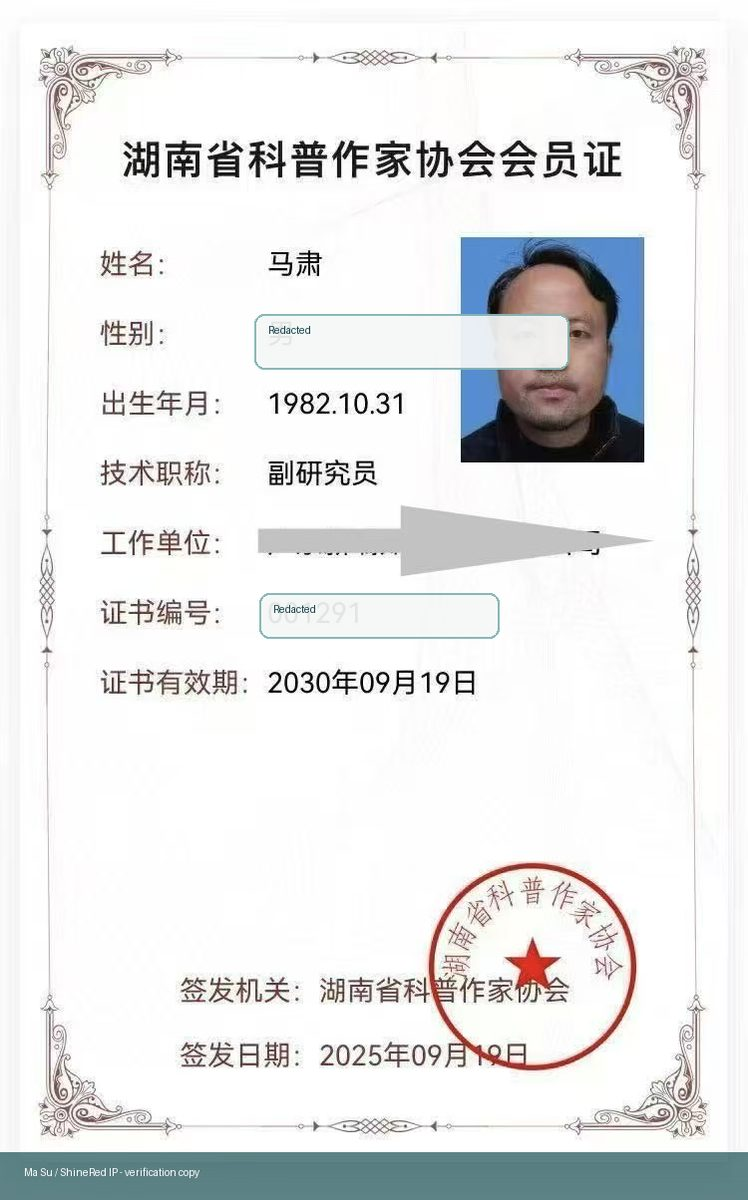
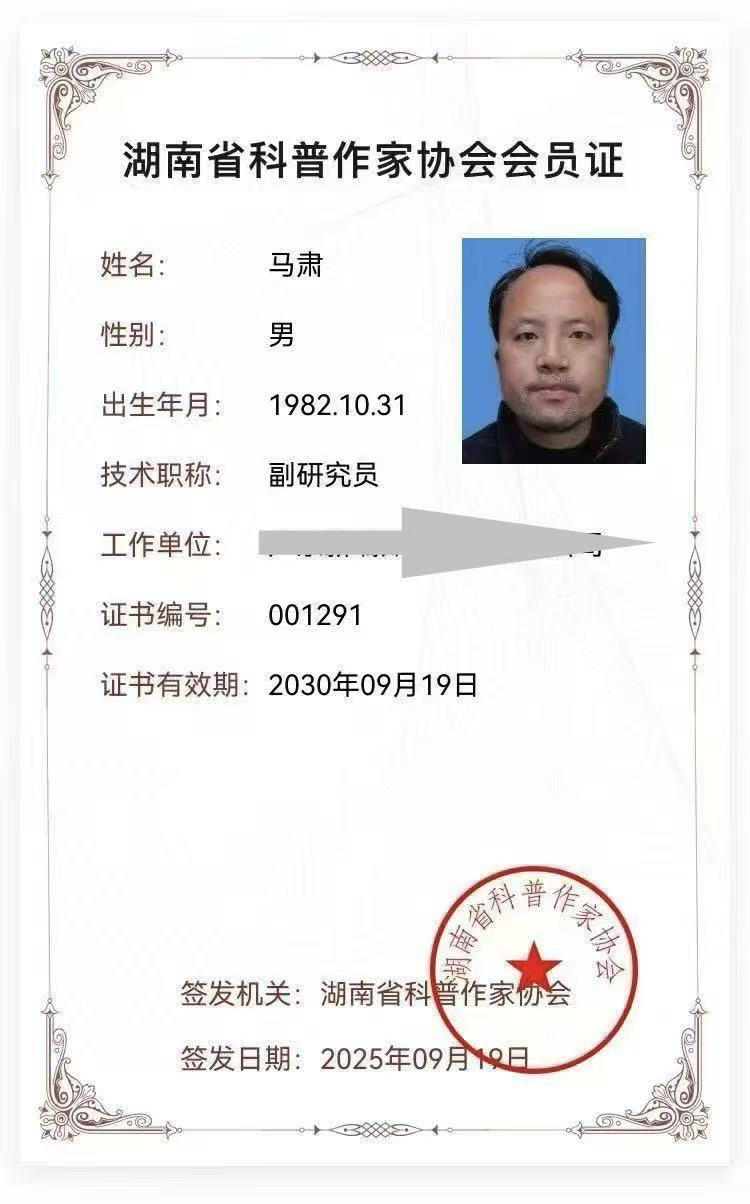
Update credential gallery certificates

diff --git a/scripts/apply_multilingual_support.js b/scripts/apply_multilingual_support.js
@@ -334,7 +334,10 @@ const runtime = String.raw`(() => {
       "Certified expert profile.": "認證專家資料。",
       "Science Communication Expert": "科普專家",
       "Appointment related to science communication and innovation education.": "與科學傳播和創新教育相關的聘任。",
+      "Hunan Science Writers Association": "湖南省科普作家協會",
+      "Membership certificate for science communication writing and public science education.": "科普寫作與公眾科學教育相關的會員證明。",
       "Youth Innovation Coaching": "青少年科創輔導",
+      "ICC National Finals Instructor Award": "全球發明大會中國區全國總決賽指導教師獎",
       "Instructor record for Invention Convention China National Finals First Prize.": "中國青少年發明創新展評總決賽一等獎指導教師記錄。",
       "IP Education Training": "知識產權教育培訓",
       "Intellectual property education teacher training record.": "知識產權教育師資培訓記錄。",
@@ -468,6 +471,8 @@ const runtime = String.raw`(() => {
       "Book and Curriculum": "書籍とカリキュラム",
       "Youth Innovation Case": "青少年イノベーション事例",
       "Credentials and Proof": "資格と実績証明",
+      "Hunan Science Writers Association": "湖南省サイエンスライター協会",
+      "ICC National Finals Instructor Award": "Invention Convention China 全国決勝 指導教員賞",
       "Patent-Map Guided Innovation": "特許マップ主導のイノベーション",
       "Use patent information to create, not only to avoid infringement.": "侵害回避だけでなく、創造のために特許情報を使います。",
       "Common mistake": "よくある誤り",
@@ -521,6 +526,8 @@ const runtime = String.raw`(() => {
       "Book and Curriculum": "Kitap ve müfredat",
       "Youth Innovation Case": "Gençlik inovasyonu vakası",
       "Credentials and Proof": "Belgeler ve kanıtlar",
+      "Hunan Science Writers Association": "Hunan Bilim Yazarları Derneği",
+      "ICC National Finals Instructor Award": "ICC Ulusal Final Eğitmen Ödülü",
       "Patent-Map Guided Innovation": "Patent Haritası Odaklı İnovasyon",
       "Use patent information to create, not only to avoid infringement.": "Patent bilgisini yalnızca ihlalden kaçınmak için değil, yaratmak için kullanın.",
       "Common mistake": "Yaygın hata",
@@ -574,6 +581,8 @@ const runtime = String.raw`(() => {
       "Book and Curriculum": "Sách và chương trình",
       "Youth Innovation Case": "Trường hợp đổi mới thanh thiếu niên",
       "Credentials and Proof": "Chứng chỉ và bằng chứng",
+      "Hunan Science Writers Association": "Hiệp hội Nhà văn Khoa học tỉnh Hồ Nam",
+      "ICC National Finals Instructor Award": "Giải giáo viên hướng dẫn Vòng chung kết quốc gia ICC",
       "Patent-Map Guided Innovation": "Đổi mới theo bản đồ sáng chế",
       "Use patent information to create, not only to avoid infringement.": "Dùng thông tin sáng chế để sáng tạo, không chỉ để tránh xâm phạm.",
       "Common mistake": "Sai lầm phổ biến",

diff --git a/i18n.js b/i18n.js
@@ -328,7 +328,10 @@
       "Certified expert profile.": "認證專家資料。",
       "Science Communication Expert": "科普專家",
       "Appointment related to science communication and innovation education.": "與科學傳播和創新教育相關的聘任。",
+      "Hunan Science Writers Association": "湖南省科普作家協會",
+      "Membership certificate for science communication writing and public science education.": "科普寫作與公眾科學教育相關的會員證明。",
       "Youth Innovation Coaching": "青少年科創輔導",
+      "ICC National Finals Instructor Award": "全球發明大會中國區全國總決賽指導教師獎",
       "Instructor record for Invention Convention China National Finals First Prize.": "中國青少年發明創新展評總決賽一等獎指導教師記錄。",
       "IP Education Training": "知識產權教育培訓",
       "Intellectual property education teacher training record.": "知識產權教育師資培訓記錄。",
@@ -462,6 +465,8 @@
       "Book and Curriculum": "書籍とカリキュラム",
       "Youth Innovation Case": "青少年イノベーション事例",
       "Credentials and Proof": "資格と実績証明",
+      "Hunan Science Writers Association": "湖南省サイエンスライター協会",
+      "ICC National Finals Instructor Award": "Invention Convention China 全国決勝 指導教員賞",
       "Patent-Map Guided Innovation": "特許マップ主導のイノベーション",
       "Use patent information to create, not only to avoid infringement.": "侵害回避だけでなく、創造のために特許情報を使います。",
       "Common mistake": "よくある誤り",
@@ -515,6 +520,8 @@
       "Book and Curriculum": "Kitap ve müfredat",
       "Youth Innovation Case": "Gençlik inovasyonu vakası",
       "Credentials and Proof": "Belgeler ve kanıtlar",
+      "Hunan Science Writers Association": "Hunan Bilim Yazarları Derneği",
+      "ICC National Finals Instructor Award": "ICC Ulusal Final Eğitmen Ödülü",
       "Patent-Map Guided Innovation": "Patent Haritası Odaklı İnovasyon",
       "Use patent information to create, not only to avoid infringement.": "Patent bilgisini yalnızca ihlalden kaçınmak için değil, yaratmak için kullanın.",
       "Common mistake": "Yaygın hata",
@@ -568,6 +575,8 @@
       "Book and Curriculum": "Sách và chương trình",
       "Youth Innovation Case": "Trường hợp đổi mới thanh thiếu niên",
       "Credentials and Proof": "Chứng chỉ và bằng chứng",
+      "Hunan Science Writers Association": "Hiệp hội Nhà văn Khoa học tỉnh Hồ Nam",
+      "ICC National Finals Instructor Award": "Giải giáo viên hướng dẫn Vòng chung kết quốc gia ICC",
       "Patent-Map Guided Innovation": "Đổi mới theo bản đồ sáng chế",
       "Use patent information to create, not only to avoid infringement.": "Dùng thông tin sáng chế để sáng tạo, không chỉ để tránh xâm phạm.",
       "Common mistake": "Sai lầm phổ biến",

diff --git a/public/i18n.js b/public/i18n.js
@@ -328,7 +328,10 @@
       "Certified expert profile.": "認證專家資料。",
       "Science Communication Expert": "科普專家",
       "Appointment related to science communication and innovation education.": "與科學傳播和創新教育相關的聘任。",
+      "Hunan Science Writers Association": "湖南省科普作家協會",
+      "Membership certificate for science communication writing and public science education.": "科普寫作與公眾科學教育相關的會員證明。",
       "Youth Innovation Coaching": "青少年科創輔導",
+      "ICC National Finals Instructor Award": "全球發明大會中國區全國總決賽指導教師獎",
       "Instructor record for Invention Convention China National Finals First Prize.": "中國青少年發明創新展評總決賽一等獎指導教師記錄。",
       "IP Education Training": "知識產權教育培訓",
       "Intellectual property education teacher training record.": "知識產權教育師資培訓記錄。",
@@ -462,6 +465,8 @@
       "Book and Curriculum": "書籍とカリキュラム",
       "Youth Innovation Case": "青少年イノベーション事例",
       "Credentials and Proof": "資格と実績証明",
+      "Hunan Science Writers Association": "湖南省サイエンスライター協会",
+      "ICC National Finals Instructor Award": "Invention Convention China 全国決勝 指導教員賞",
       "Patent-Map Guided Innovation": "特許マップ主導のイノベーション",
       "Use patent information to create, not only to avoid infringement.": "侵害回避だけでなく、創造のために特許情報を使います。",
       "Common mistake": "よくある誤り",
@@ -515,6 +520,8 @@
       "Book and Curriculum": "Kitap ve müfredat",
       "Youth Innovation Case": "Gençlik inovasyonu vakası",
       "Credentials and Proof": "Belgeler ve kanıtlar",
+      "Hunan Science Writers Association": "Hunan Bilim Yazarları Derneği",
+      "ICC National Finals Instructor Award": "ICC Ulusal Final Eğitmen Ödülü",
       "Patent-Map Guided Innovation": "Patent Haritası Odaklı İnovasyon",
       "Use patent information to create, not only to avoid infringement.": "Patent bilgisini yalnızca ihlalden kaçınmak için değil, yaratmak için kullanın.",
       "Common mistake": "Yaygın hata",
@@ -568,6 +575,8 @@
       "Book and Curriculum": "Sách và chương trình",
       "Youth Innovation Case": "Trường hợp đổi mới thanh thiếu niên",
       "Credentials and Proof": "Chứng chỉ và bằng chứng",
+      "Hunan Science Writers Association": "Hiệp hội Nhà văn Khoa học tỉnh Hồ Nam",
+      "ICC National Finals Instructor Award": "Giải giáo viên hướng dẫn Vòng chung kết quốc gia ICC",
       "Patent-Map Guided Innovation": "Đổi mới theo bản đồ sáng chế",
       "Use patent information to create, not only to avoid infringement.": "Dùng thông tin sáng chế để sáng tạo, không chỉ để tránh xâm phạm.",
       "Common mistake": "Sai lầm phổ biến",

diff --git a/about.html b/about.html
@@ -149,8 +149,12 @@
           <figcaption><strong>Science Communication Expert</strong><span>Appointment related to science communication and innovation education.</span></figcaption>
         </figure>
 <figure>
-          <img src="assets/credentials/icc-first-prize-web.jpg" alt="Youth Innovation Coaching" loading="lazy" />
-          <figcaption><strong>Youth Innovation Coaching</strong><span>Instructor record for Invention Convention China National Finals First Prize.</span></figcaption>
+          <img src="assets/credentials/hunan-science-writers-web.jpg" alt="Hunan Science Writers Association" loading="lazy" />
+          <figcaption><strong>Hunan Science Writers Association</strong><span>Membership certificate for science communication writing and public science education.</span></figcaption>
+        </figure>
+<figure>
+          <img src="assets/credentials/icc-first-prize-web.jpg" alt="ICC National Finals Instructor Award" loading="lazy" />
+          <figcaption><strong>ICC National Finals Instructor Award</strong><span>Instructor record for Invention Convention China National Finals First Prize.</span></figcaption>
         </figure>
 <figure>
           <img src="assets/credentials/ip-teacher-training-web.jpg" alt="IP Education Training" loading="lazy" />

diff --git a/public/about.html b/public/about.html
@@ -149,8 +149,12 @@
           <figcaption><strong>Science Communication Expert</strong><span>Appointment related to science communication and innovation education.</span></figcaption>
         </figure>
 <figure>
-          <img src="assets/credentials/icc-first-prize-web.jpg" alt="Youth Innovation Coaching" loading="lazy" />
-          <figcaption><strong>Youth Innovation Coaching</strong><span>Instructor record for Invention Convention China National Finals First Prize.</span></figcaption>
+          <img src="assets/credentials/hunan-science-writers-web.jpg" alt="Hunan Science Writers Association" loading="lazy" />
+          <figcaption><strong>Hunan Science Writers Association</strong><span>Membership certificate for science communication writing and public science education.</span></figcaption>
+        </figure>
+<figure>
+          <img src="assets/credentials/icc-first-prize-web.jpg" alt="ICC National Finals Instructor Award" loading="lazy" />
+          <figcaption><strong>ICC National Finals Instructor Award</strong><span>Instructor record for Invention Convention China National Finals First Prize.</span></figcaption>
         </figure>
 <figure>
           <img src="assets/credentials/ip-teacher-training-web.jpg" alt="IP Education Training" loading="lazy" />

diff --git a/scripts/restructure_content_site.js b/scripts/restructure_content_site.js
@@ -433,7 +433,8 @@ function aboutPage() {
     ["inventions-association-web.jpg", "China Association of Inventions", "Membership connected with invention and innovation practice."],
     ["cnki-expert-web.jpg", "CNKI Galaxy Expert Library", "Certified expert profile."],
     ["science-communication-expert-web.jpg", "Science Communication Expert", "Appointment related to science communication and innovation education."],
-    ["icc-first-prize-web.jpg", "Youth Innovation Coaching", "Instructor record for Invention Convention China National Finals First Prize."],
+    ["hunan-science-writers-web.jpg", "Hunan Science Writers Association", "Membership certificate for science communication writing and public science education."],
+    ["icc-first-prize-web.jpg", "ICC National Finals Instructor Award", "Instructor record for Invention Convention China National Finals First Prize."],
     ["ip-teacher-training-web.jpg", "IP Education Training", "Intellectual property education teacher training record."],
   ];
   const credentialCards = credentials
